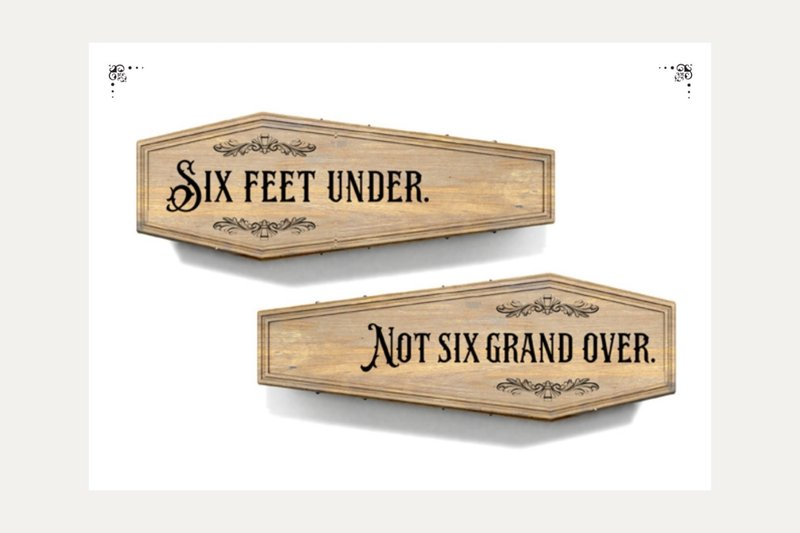
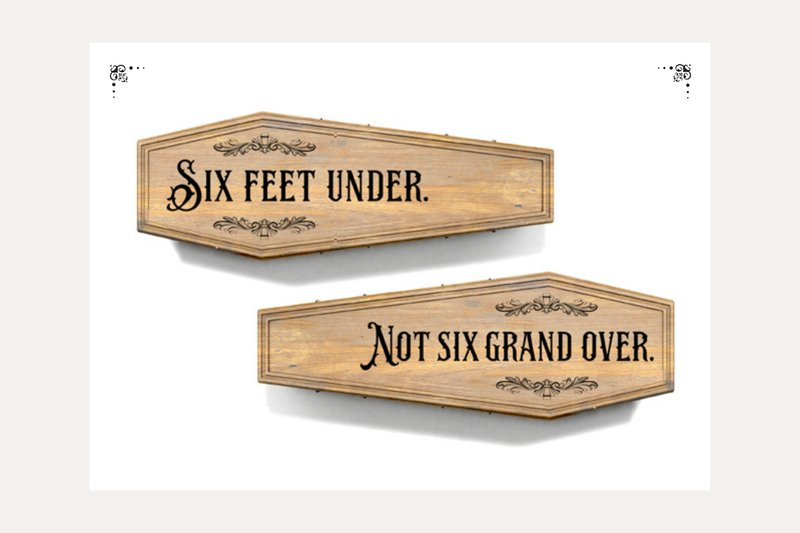
Rustic Coffins: sharp high-DPI poster and home card from print PDF

diff --git a/work/rustic-coffins.html b/work/rustic-coffins.html
@@ -35,7 +35,7 @@
   <h1>Rustic Coffins</h1>
   <p class="lede">Funeral homes mark caskets up by thousands. Rustic Coffins builds wooden coffins and sells them straight to families.</p>
   <p class="body">So the ads say the price part out loud. Straight face. Small wink.</p>
-  <div class="stills stills-poster"><img src="../img/rustic-coffins/poster.jpg" width="1080" height="1769" alt="Rustic Coffins poster — Six feet under. Not six grand over. Traditional caskets sold through funeral homes often cost thousands of dollars. Rustic Coffins offers an alternative."></div>
+  <div class="stills stills-poster"><img src="../img/rustic-coffins/poster.jpg" srcset="../img/rustic-coffins/poster-800.jpg 800w, ../img/rustic-coffins/poster.jpg 1800w" sizes="(max-width: 760px) 88vw, 44rem" width="1800" height="2946" alt="Rustic Coffins poster — Six feet under. Not six grand over. Traditional caskets sold through funeral homes often cost thousands of dollars. Rustic Coffins offers an alternative."></div>
   <h2 class="more-label">Banners</h2>
   <div class="stills stills-banners">
     <img src="../img/rustic-coffins/banner-1.jpg" srcset="../img/rustic-coffins/banner-1-800.jpg 800w, ../img/rustic-coffins/banner-1.jpg 2000w" sizes="(max-width: 860px) 88vw, 52rem" width="2000" height="582" loading="lazy" alt="Rustic Coffins banner — Your last good buy. Affordable. Customizable. High quality.">

diff --git a/index.html b/index.html
@@ -75,7 +75,7 @@
       </div>
     </a>
     <a class="card" href="work/rustic-coffins.html">
-      <div class="thumb"><img src="img/rustic-coffins/cover.jpg" srcset="img/rustic-coffins/cover-800.jpg 800w, img/rustic-coffins/cover.jpg 1388w" sizes="(max-width: 760px) 88vw, 44vw" width="1388" height="925" alt="Rustic Coffins poster — Six feet under. Not six grand over." loading="lazy"></div>
+      <div class="thumb"><img src="img/rustic-coffins/cover.jpg" srcset="img/rustic-coffins/cover-800.jpg 800w, img/rustic-coffins/cover.jpg 1800w" sizes="(max-width: 760px) 88vw, 44vw" width="1800" height="1200" alt="Rustic Coffins poster — Six feet under. Not six grand over." loading="lazy"></div>
       <div class="meta">
         <div>
           <strong>Rustic Coffins</strong>
